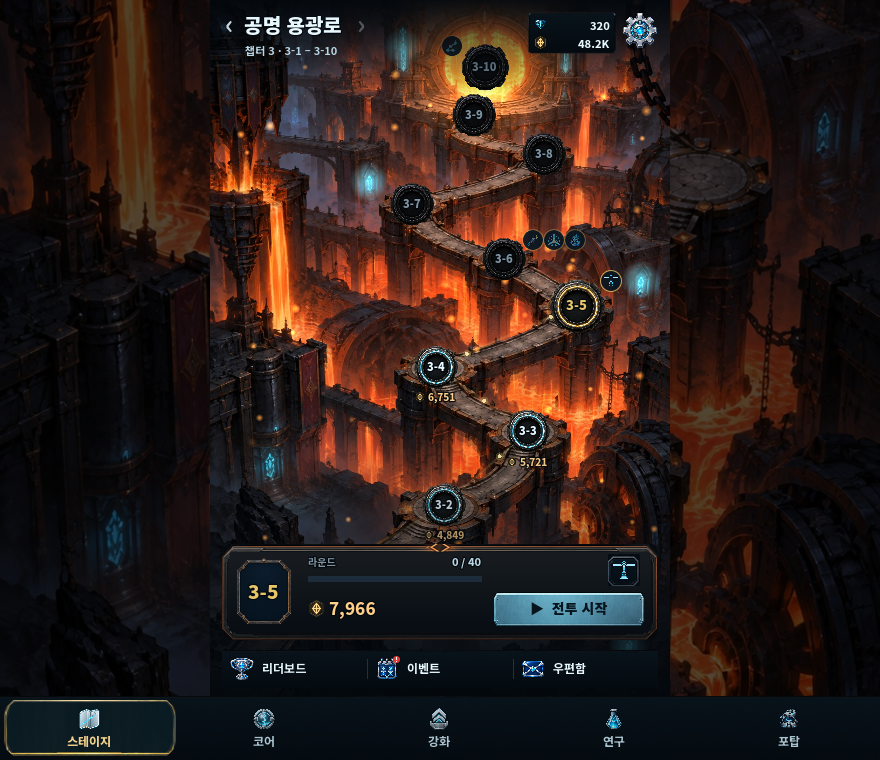
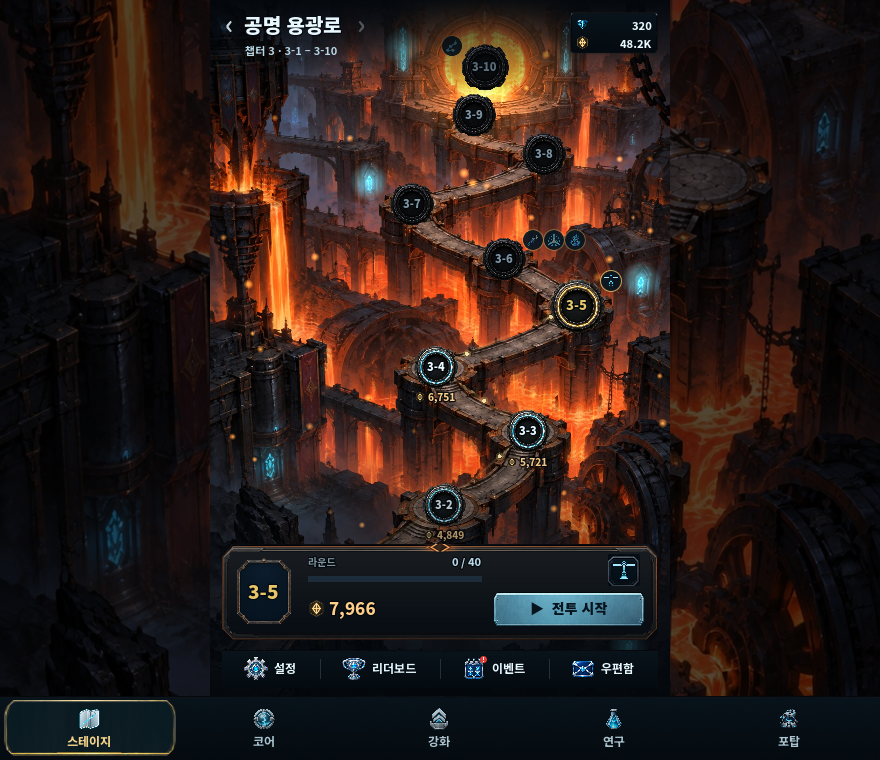
feat: 스테이지 홈 설정을 하단 단축 줄 맨 왼쪽으로 이동

diff --git a/docs/design_decisions/lobby.md b/docs/design_decisions/lobby.md
@@ -13,9 +13,9 @@
 
 | 영역 | 유지할 결정 | 참고 자료 |
 | --- | --- | --- |
-| 스테이지 지도 홈 | 별도 메인 로비 없이 스테이지 탭이 첫 화면이다. 챕터마다 그린 지도 위 발판에 10개 스테이지 소켓을 두고(클리어 청록·선택 금색·열림 빈 소켓·잠김 어둡게), 첫 클리어 해금은 획득 전까지 소켓 옆 아이콘 배지(최대 3개)로, 룬 보상은 아이콘과 축약 수치로 표시한다. 선택 스테이지까지 금빛 이동 표시와 숨쉬는 후광을 두고, 챕터별 구름·안개·포탈·용암 흐름·빛 맥동·입자를 은은하게 움직인다(화면이 가려지면 멈추고, 애니메이션 끄기 설정이면 정지). 상단은 ‹ 챕터명 ›·챕터 범위·자원 프레임 지갑·설정, 하단은 선택 카드·리더보드/이벤트/우편함 줄·5개 메뉴 탭 순서다. 지도가 화면에 다 들어가지 않으면 세로로 85%까지 줄인 뒤 남는 부분만 드래그·휠로 스크롤하고, 탭과 드래그를 구분한다. 넓은 화면은 460px 지도 열 양옆을 어둡게 늘린 같은 지도로 채운다. | [구현](../../godot/ui/stage_map_view.gd), [실제 적용 캡처](../../design/stage_map_concepts/2026-10-27/README.md), [회귀 검사](../../godot/tests/verify_lobby_stages.gd) |
+| 스테이지 지도 홈 | 별도 메인 로비 없이 스테이지 탭이 첫 화면이다. 챕터마다 그린 지도 위 발판에 10개 스테이지 소켓을 두고(클리어 청록·선택 금색·열림 빈 소켓·잠김 어둡게), 첫 클리어 해금은 획득 전까지 소켓 옆 아이콘 배지(최대 3개)로, 룬 보상은 아이콘과 축약 수치로 표시한다. 선택 스테이지까지 금빛 이동 표시와 숨쉬는 후광을 두고, 챕터별 구름·안개·포탈·용암 흐름·빛 맥동·입자를 은은하게 움직인다(화면이 가려지면 멈추고, 애니메이션 끄기 설정이면 정지). 상단은 ‹ 챕터명 ›·챕터 범위·자원 프레임 지갑, 하단은 선택 카드·설정/리더보드/이벤트/우편함 줄·5개 메뉴 탭 순서다. 지도가 화면에 다 들어가지 않으면 세로로 85%까지 줄인 뒤 남는 부분만 드래그·휠로 스크롤하고, 탭과 드래그를 구분한다. 넓은 화면은 460px 지도 열 양옆을 어둡게 늘린 같은 지도로 채운다. | [구현](../../godot/ui/stage_map_view.gd), [실제 적용 캡처](../../design/stage_map_concepts/2026-10-27/README.md), [회귀 검사](../../godot/tests/verify_lobby_stages.gd) |
 | 스테이지 카드 | 지도 아래 고정 카드에 스테이지 번호 소켓, 라운드 진행(라벨·수치·막대), 룬 보상, 첫 클리어 해금 아이콘, 시작 버튼을 둔다. 라운드 막대는 시작 버튼 앞에서 끝난다. 버튼은 ‘▶ 전투 시작’, 진행 중이면 ‘▶ 이어서 진행’, 잠김이면 자물쇠와 ‘X-Y 클리어 필요’로 어둡게 표시한다. 해금 아이콘을 누르면 위에 이름과 들어가는 곳(강화 탭에 추가 등)만 담은 말풍선을 띄우고, 다른 곳을 누르면 닫는다. 효과 수치와 별도 상세 모달은 두지 않는다. | [구현](../../godot/ui/lobby_stage_card.gd), [회귀 검사](../../godot/tests/verify_lobby_numbers.gd) |
-| 로비 설정 | 스테이지 홈 오른쪽 위 설정 모달에 MSAA(끄기·2배), 그림자 품질(끄기·낮음·중간·높음), 3D 렌더 해상도(50·75·100%), 프레임 제한(30·60)을 각각 라디오 선택으로 제공한다. 기본값은 2배·높음·100%·60이며, 해상도는 3D 전장에만 적용하고 메뉴·HUD·라벨은 원래 해상도를 유지한다. 작은 화면에서는 선택지를 줄바꿈한다. 그래픽 설정은 기기별로 저장하고 새 전투와 앱 재시작 후 이어서 하는 저장된 전투에 적용한다. 계정 및 저장 버튼을 유지한다. | [구현·검증](../../design/lobby/graphics_settings/README.md) |
+| 로비 설정 | 스테이지 홈 하단 단축 줄 맨 왼쪽 설정으로 여는 설정 모달에 MSAA(끄기·2배), 그림자 품질(끄기·낮음·중간·높음), 3D 렌더 해상도(50·75·100%), 프레임 제한(30·60)을 각각 라디오 선택으로 제공한다. 기본값은 2배·높음·100%·60이며, 해상도는 3D 전장에만 적용하고 메뉴·HUD·라벨은 원래 해상도를 유지한다. 작은 화면에서는 선택지를 줄바꿈한다. 그래픽 설정은 기기별로 저장하고 새 전투와 앱 재시작 후 이어서 하는 저장된 전투에 적용한다. 계정 및 저장 버튼을 유지한다. | [구현·검증](../../design/lobby/graphics_settings/README.md) |
 | 메뉴 탭 상단 | 코어·강화·연구·포탑 탭 상단에는 계정 로그인 아이콘을 표시하지 않는다. 계정 및 저장은 스테이지 홈 설정에서 접근한다. 전체 폭으로 이어지는 배경 띠를 두지 않는다. 제목과 기존 아이콘을 왼쪽에 정렬하고 뒤로가기 버튼은 두지 않으며, 하단 스테이지 탭과 시스템 뒤로가기로 지도 홈에 돌아간다. 자원은 오른쪽 독립 영역에 표시하고 좁은 화면에서도 긴 수치를 생략하지 않는다. | [공통 메뉴](../../godot/ui/lobby.gd), [Godot 상단 적용·검증](../../design/combat_ui_concepts/2026-09-22/lobby-header/README.md) |
 | 메뉴 하단 탭 | 기존 5개 메뉴와 아이콘을 유지하고 아이콘 위·이름 아래로 정렬한다. 선택 탭은 청록 면과 금색 테두리, 비선택 탭은 통합 도크 위의 아이콘과 이름으로 구분한다. 기존 PNG와 native StyleBoxTexture, 표준 Container를 사용한다. | [적용·검증](../../design/combat_ui_concepts/2026-09-22/lobby-footer/README.md) |
 | 연구 중 슬롯 | 승인 A안의 개별 남청 금속 카드·사선 모서리·연구별 사각 아이콘 홈을 따른다. 이름과 레벨을 분리하고 얇은 금색 가로 진행바와 진행률을 표시한다. 남은 시간은 하단 왼쪽, 청동색 ‘중단’ 보조 버튼은 상단 오른쪽, 청록색 ‘즉시 완료’ 버튼은 하단 오른쪽에 둔다. 즉시 완료 버튼 안에서 얇은 구분선으로 다이아 아이콘·실제 비용을 구분하며 하나의 행동으로 유지한다. 카드 전체를 채우던 금색 면과 정보 아이콘은 사용하지 않는다. 실제 연구 시간·중단 후 보존 시간·즉시 완료 비용·재화 부족 상태·중단 및 완료 확인·빈 슬롯과 두 번째 슬롯 해금의 기존 계약을 유지하고, 좁은 화면과 두 슬롯에서도 정보를 읽고 조작할 수 있도록 한다. | [승인 A안·버튼 개선](../../design/research_slot_concepts/2026-10-06/a-metal-cards-buttons-v2.png), [구현](../../godot/ui/lobby_growth.gd) |
